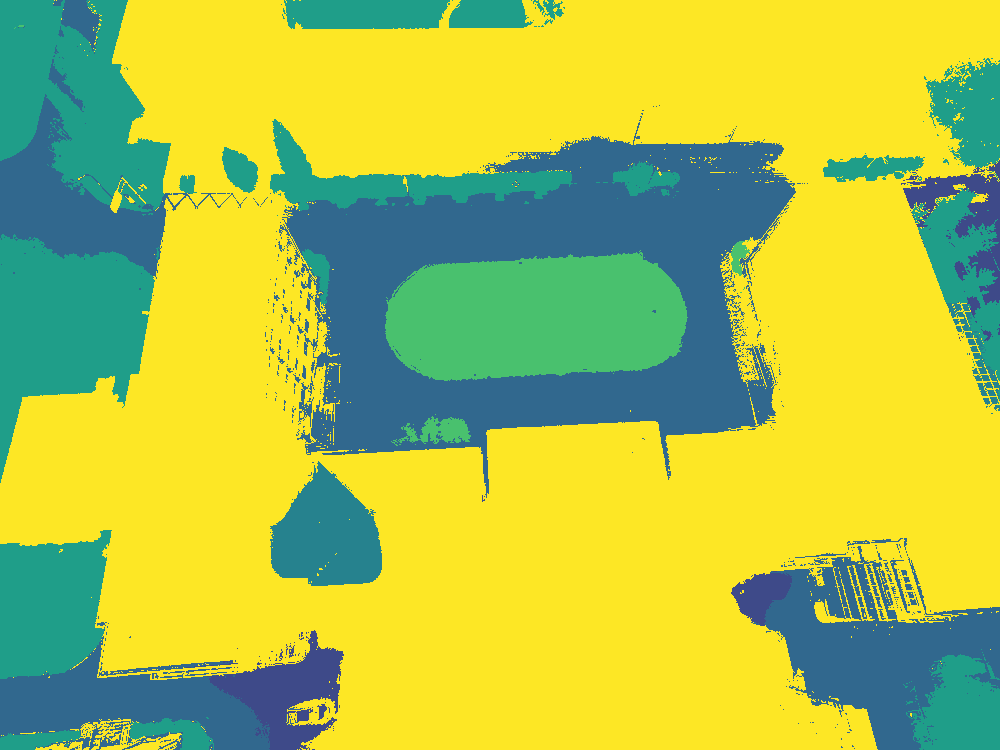
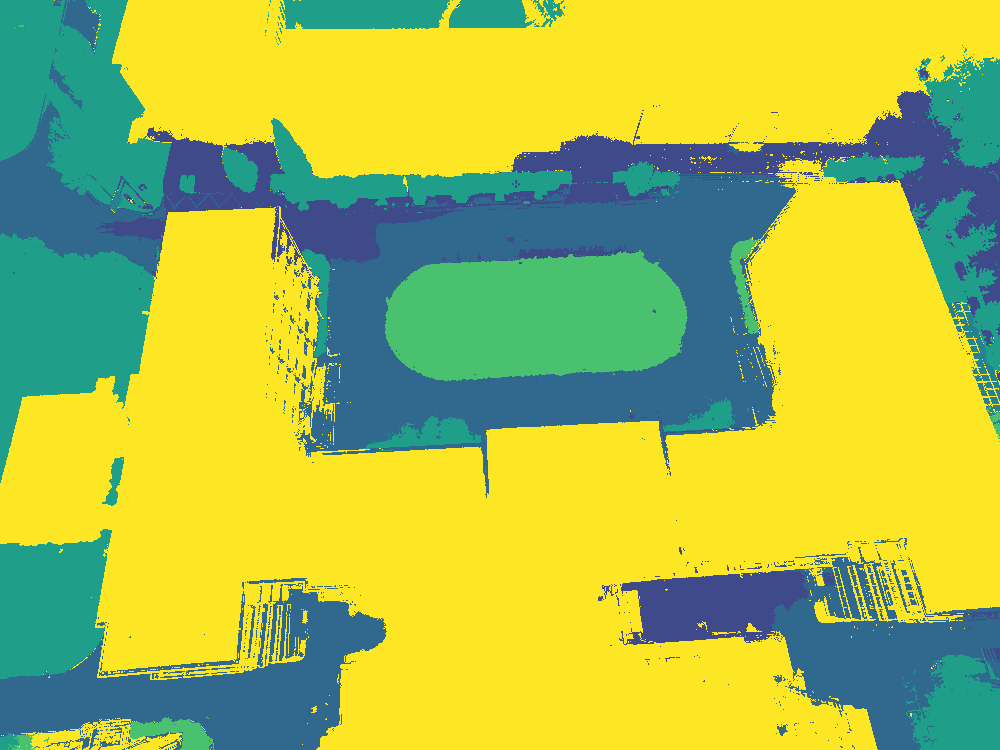
emmm

diff --git a/model.py b/model.py
@@ -13,42 +13,23 @@ _DEFAULT_CLASSNAMES = ["object"]
 _DEFAULT_TEMPLATES = ["a photo of a {}."]
 
 
-class SatUpWrapper(nn.Module):
-    def __init__(self, device="cuda"):
-        super().__init__()
-        self.device = device
-        self.model = SatUp(dim=128, v_dim=768).to(device)
-        ckpt = torch.load("satup_22.pth", map_location=device)
-        self.model.load_state_dict(ckpt, strict=True)
-        self.model.eval()
-
-    @torch.no_grad()
-    def forward(self, guide_lr_img, hr_clip_feat):
-        # hr_clip_feat 才是要传给 model features 的张量
-        out_h, out_w = hr_clip_feat.shape[-2:]
-        pred_feat = self.model(
-            image=guide_lr_img, features=hr_clip_feat, output_size=(out_h, out_w)
-        )
-        return pred_feat
-
-
 class DenseClip(nn.Module):
     def __init__(
         self,
         name: str,
         classnames: List[str] = None,
         templates: List[str] = None,
-        device: Union[str, torch.device] = "cuda"
-        if torch.cuda.is_available()
-        else "cpu",
+        device: Union[str, torch.device] = "cuda" if torch.cuda.is_available() else "cpu",
         jit: bool = False,
         only_clear: bool = False,
-        upsampler="gfup",
+        upsampler: str = "gfup",
+        downscale_factor: float = 0.5,  # 新增：下采样比例，与 infer.py 一致
     ):
         super().__init__()
         self.device = torch.device(device)
         self.model_name = name
         self.only_clear = only_clear
+        self.downscale_factor = downscale_factor
 
         # 1. 加载 OpenCLIP 模型
         pretrained_tag = "openai" if "laion" not in name else "laion2b_s34b_b88k"
@@ -60,7 +41,6 @@ class DenseClip(nn.Module):
         self.visual = self.clip_model.visual
 
         # 2. 维度定义
-        # ViT-B-16 的 conv1.out_channels 通常为 768
         self.feat_dim = self.visual.conv1.out_channels
         self.embed_dim = (
             model.text_projection.shape[1]
@@ -69,6 +49,7 @@ class DenseClip(nn.Module):
         )
         self.up = None
 
+        # 3. 上采样器初始化
         if upsampler == "anyup":
             self.up = (
                 torch.hub.load("wimmerth/anyup", "anyup", verbose=False)
@@ -76,7 +57,11 @@ class DenseClip(nn.Module):
                 .eval()
             )
         elif upsampler == "satup":
-            self.up = SatUpWrapper(device=self.device)
+            # 直接使用 SatUp，不再通过 Wrapper，确保与 infer.py 调用方式一致
+            self.up = SatUp(dim=128, v_dim=768).to(self.device)
+            ckpt = torch.load("satup_22.pth", map_location=self.device)
+            self.up.load_state_dict(ckpt, strict=True)
+            self.up.eval()
         elif upsampler == "gfup":
             self.up = GaussianUpsamplerWrapper()
         elif upsampler == "featup":
@@ -86,30 +71,26 @@ class DenseClip(nn.Module):
         if self.only_clear is not False:
             self.up = None
 
-        # 将 CLIP 原生的视觉投影权重迁移到 Conv2d(1x1) 中，方便处理特征图
+        # 4. 视觉投影层 (1x1 conv)
         self.v_proj = nn.Conv2d(self.feat_dim, self.embed_dim, 1).to(self.device)
         if hasattr(self.visual, "proj") and self.visual.proj is not None:
             with torch.no_grad():
-                # 权重转置并扩展为 [out, in, 1, 1]
                 self.v_proj.weight.data.copy_(
                     self.visual.proj.data.T.unsqueeze(-1).unsqueeze(-1)
                 )
                 if self.v_proj.bias is not None:
                     nn.init.constant_(self.v_proj.bias, 0)
 
-        # 5. 文本分支配置
+        # 5. 文本分支
         self.classnames = classnames if classnames is not None else _DEFAULT_CLASSNAMES
         self.templates = templates if templates is not None else _DEFAULT_TEMPLATES
         self.temperature = nn.Parameter(torch.ones([]) * 0.07)
 
-        # 6. 初始化零样本分类器 (支持近义词)
+        # 6. 初始化零样本分类器
         self._init_zeroshot_classifier()
 
     @torch.no_grad()
     def _init_zeroshot_classifier(self):
-        """
-        核心逻辑：对每个类别组内的所有近义词进行编码，取均值后归一化。
-        """
         final_text_embeds = []
         for class_group in self.classnames:
             synonyms = [s.strip() for s in class_group.split(",")]
@@ -117,26 +98,26 @@ class DenseClip(nn.Module):
             for cls_name in synonyms:
                 texts = [t.format(cls_name) for t in self.templates]
                 tokens = open_clip.tokenize(texts).to(self.device)
-
-                # [num_templates, embed_dim]
                 class_embed = self.clip_model.encode_text(tokens)
                 class_embed = F.normalize(class_embed, dim=-1)
                 group_embeds.append(class_embed.mean(dim=0))
-
             combined_embed = torch.stack(group_embeds, dim=0).mean(dim=0)
             combined_embed = F.normalize(combined_embed, dim=-1)
             final_text_embeds.append(combined_embed)
-
         weights = torch.stack(final_text_embeds, dim=1).to(self.device)
         self.zeroshot_weights = nn.Parameter(weights)
 
-    def _stem(self, x, hr_guide: Optional[torch.Tensor] = None):
-        B, C, H, W = x.shape
+    def _extract_clearclip_features(self, img: torch.Tensor):
+        """
+        从输入图像提取 ClearCLIP 去偏特征 (patch - cls)
+        返回: [B, feat_dim, grid_h, grid_w]
+        """
+        B, C, H, W = img.shape
 
-        # --- 1. CLIP 视觉预处理与位置编码插值 ---
-        x_in = self.visual.conv1(x)
-        grid_h, grid_w = x_in.shape[2], x_in.shape[3]
-        x_tokens = x_in.flatten(2).permute(0, 2, 1)  # [B, HW, D]
+        # 1. conv1 + 位置编码插值
+        x = self.visual.conv1(img)
+        grid_h, grid_w = x.shape[2], x.shape[3]
+        x_tokens = x.flatten(2).permute(0, 2, 1)  # [B, HW, D]
 
         cls_token = self.visual.class_embedding.to(x_tokens.dtype)
         pos_embed = self.visual.positional_embedding.to(x_tokens.dtype)
@@ -159,17 +140,16 @@ class DenseClip(nn.Module):
         x_tokens = x_tokens + new_pos_embed
         x_tokens = self.visual.ln_pre(x_tokens)
 
-        # --- 2. Transformer 前馈 (保留前 L-1 层) ---
+        # 2. Transformer 前 L-1 层
         blocks = self.visual.transformer.resblocks
         for i in range(len(blocks) - 1):
             x_tokens = blocks[i](x_tokens)
 
-        # --- 3. ClearCLIP 核心：最后一层 Self-Self Attention ---
+        # 3. 最后一层 Self-Self Attention (ClearCLIP)
         last_block = blocks[-1]
         x_norm = last_block.ln_1(x_tokens)
         attn = last_block.attn
 
-        # 提取 QKV 矩阵
         qkv = F.linear(x_norm, attn.in_proj_weight, attn.in_proj_bias)
         q, k, v = qkv.chunk(3, dim=-1)
         B, N, D = q.shape
@@ -179,36 +159,44 @@ class DenseClip(nn.Module):
         q = q.view(B, N, num_heads, head_dim).transpose(1, 2)
         v = v.view(B, N, num_heads, head_dim).transpose(1, 2)
 
-        # Self-Self Attention 计算 (Patch 间关系，不依赖全局 K)
-        attn_matrix = (q @ q.transpose(-2, -1)) * (head_dim**-0.5)
+        attn_matrix = (q @ q.transpose(-2, -1)) * (head_dim ** -0.5)
         attn_matrix = attn_matrix.softmax(dim=-1)
         attn_out = (attn_matrix @ v).transpose(1, 2).reshape(B, N, -1)
 
-        # 投影与后归一化
         x_feat = F.linear(attn_out, attn.out_proj.weight, attn.out_proj.bias)
-        x_feat = self.visual.ln_post(x_feat)  # [B, N, D]
+        x_feat = self.visual.ln_post(x_feat)
 
-        # --- 4. 消除 CLS 全局偏置 (De-biasing) ---
-        # 逻辑：Patch Tokens = Patch Tokens - CLS Token
-        cls_token_out = x_feat[:, :1, :]  # [B, 1, D]
-        patch_tokens_out = x_feat[:, 1:, :]  # [B, HW, D]
-
-        # 利用广播机制，让每个 patch 减去该图像对应的全局背景均值
+        # 4. De-biasing: patch = patch - cls
+        cls_token_out = x_feat[:, :1, :]
+        patch_tokens_out = x_feat[:, 1:, :]
         debiased_patches = patch_tokens_out - cls_token_out
 
-        # 将特征还原为 2D 形状
-        lr_features = debiased_patches.permute(0, 2, 1).reshape(
-            B, self.feat_dim, grid_h, grid_w
-        )
+        # 还原为 2D 特征图
+        features = debiased_patches.permute(0, 2, 1).reshape(B, self.feat_dim, grid_h, grid_w)
+        return features
 
-        # --- 5. 引导上采样 ---
+    def _stem(self, x, hr_guide: Optional[torch.Tensor] = None):
+        B, C, H, W = x.shape
+
+        # --- 针对 SatUp 的特殊处理：与 infer.py 完全一致 ---
+        if isinstance(self.up, SatUp):
+            # 1. 下采样输入图像
+            lr_img = F.interpolate(x, scale_factor=self.downscale_factor, mode='bilinear', align_corners=False)
+            # 2. 从下采样图像提取 ClearCLIP 特征
+            lr_features = self._extract_clearclip_features(lr_img)
+            # 3. 调用 SatUp 上采样至原始尺寸
+            up_features = self.up(lr_img, lr_features, output_size=(H, W))
+            return up_features
+
+        # --- 其他上采样器（或 only_clear）保持原有逻辑 ---
+        # 注意：原有逻辑是从高分辨率图像 x 提取特征，然后上采样
+        lr_features = self._extract_clearclip_features(x)  # 高分辨率下的低分辨率特征图
         guide = hr_guide if hr_guide is not None else x
+
         if self.up is not None:
             up_features = self.up(guide, lr_features)
         else:
-            up_features = F.interpolate(
-                lr_features, size=(H, W), mode="bilinear", align_corners=False
-            )
+            up_features = F.interpolate(lr_features, size=(H, W), mode='bilinear', align_corners=False)
 
         return up_features
 
@@ -217,27 +205,13 @@ class DenseClip(nn.Module):
         输入: images [B, 3, H, W]
         输出: logits [B, num_classes, H, W]
         """
-        # 1. 提取密集特征 (已去偏置并上采样)
-        features = self._stem(
-            images.to(self.device),
-            hr_guide.to(self.device) if hr_guide is not None else None,
-        )
+        features = self._stem(images.to(self.device), hr_guide.to(self.device) if hr_guide is not None else None)
 
-        # 🔥 最小修复：只在 mismatch 时重建 v_proj
-        # if features.shape[1] != self.v_proj.in_channels:
-        # self.v_proj = nn.Conv2d(features.shape[1], self.embed_dim, 1).to(self.device)
-
-        # 2. 视觉投影到语义嵌入空间并归一化
-        # features: [B, feat_dim, H, W] -> [B, embed_dim, H, W]
+        # 投影到语义空间
         features = self.v_proj(features)
         features = F.normalize(features, dim=1)
 
         B, C, H_f, W_f = features.shape
-
-        # 3. 计算与文本权重的相似度
-        # 将特征展平进行矩阵乘法: [B*H*W, C] @ [C, num_classes]
         flat_features = features.permute(0, 2, 3, 1).reshape(-1, C)
         logits = (flat_features @ self.zeroshot_weights) / self.temperature
-
-        # 4. 还原形状为 [B, num_classes, H, W]
         return logits.reshape(B, H_f, W_f, -1).permute(0, 3, 1, 2)

diff --git a/infer.py b/infer.py
@@ -114,7 +114,7 @@ def main():
     legend_colors = [tuple(c / 255 for c in color) for color in custom_palette]
 
     # 加载模型
-    model = DenseClip("ViT-B-16", classnames, device=args.device, upsampler="satup")
+    model = DenseClip("ViT-B-16", classnames, device=args.device, upsampler="anyup")
     # print(model)
     model.eval()
 
